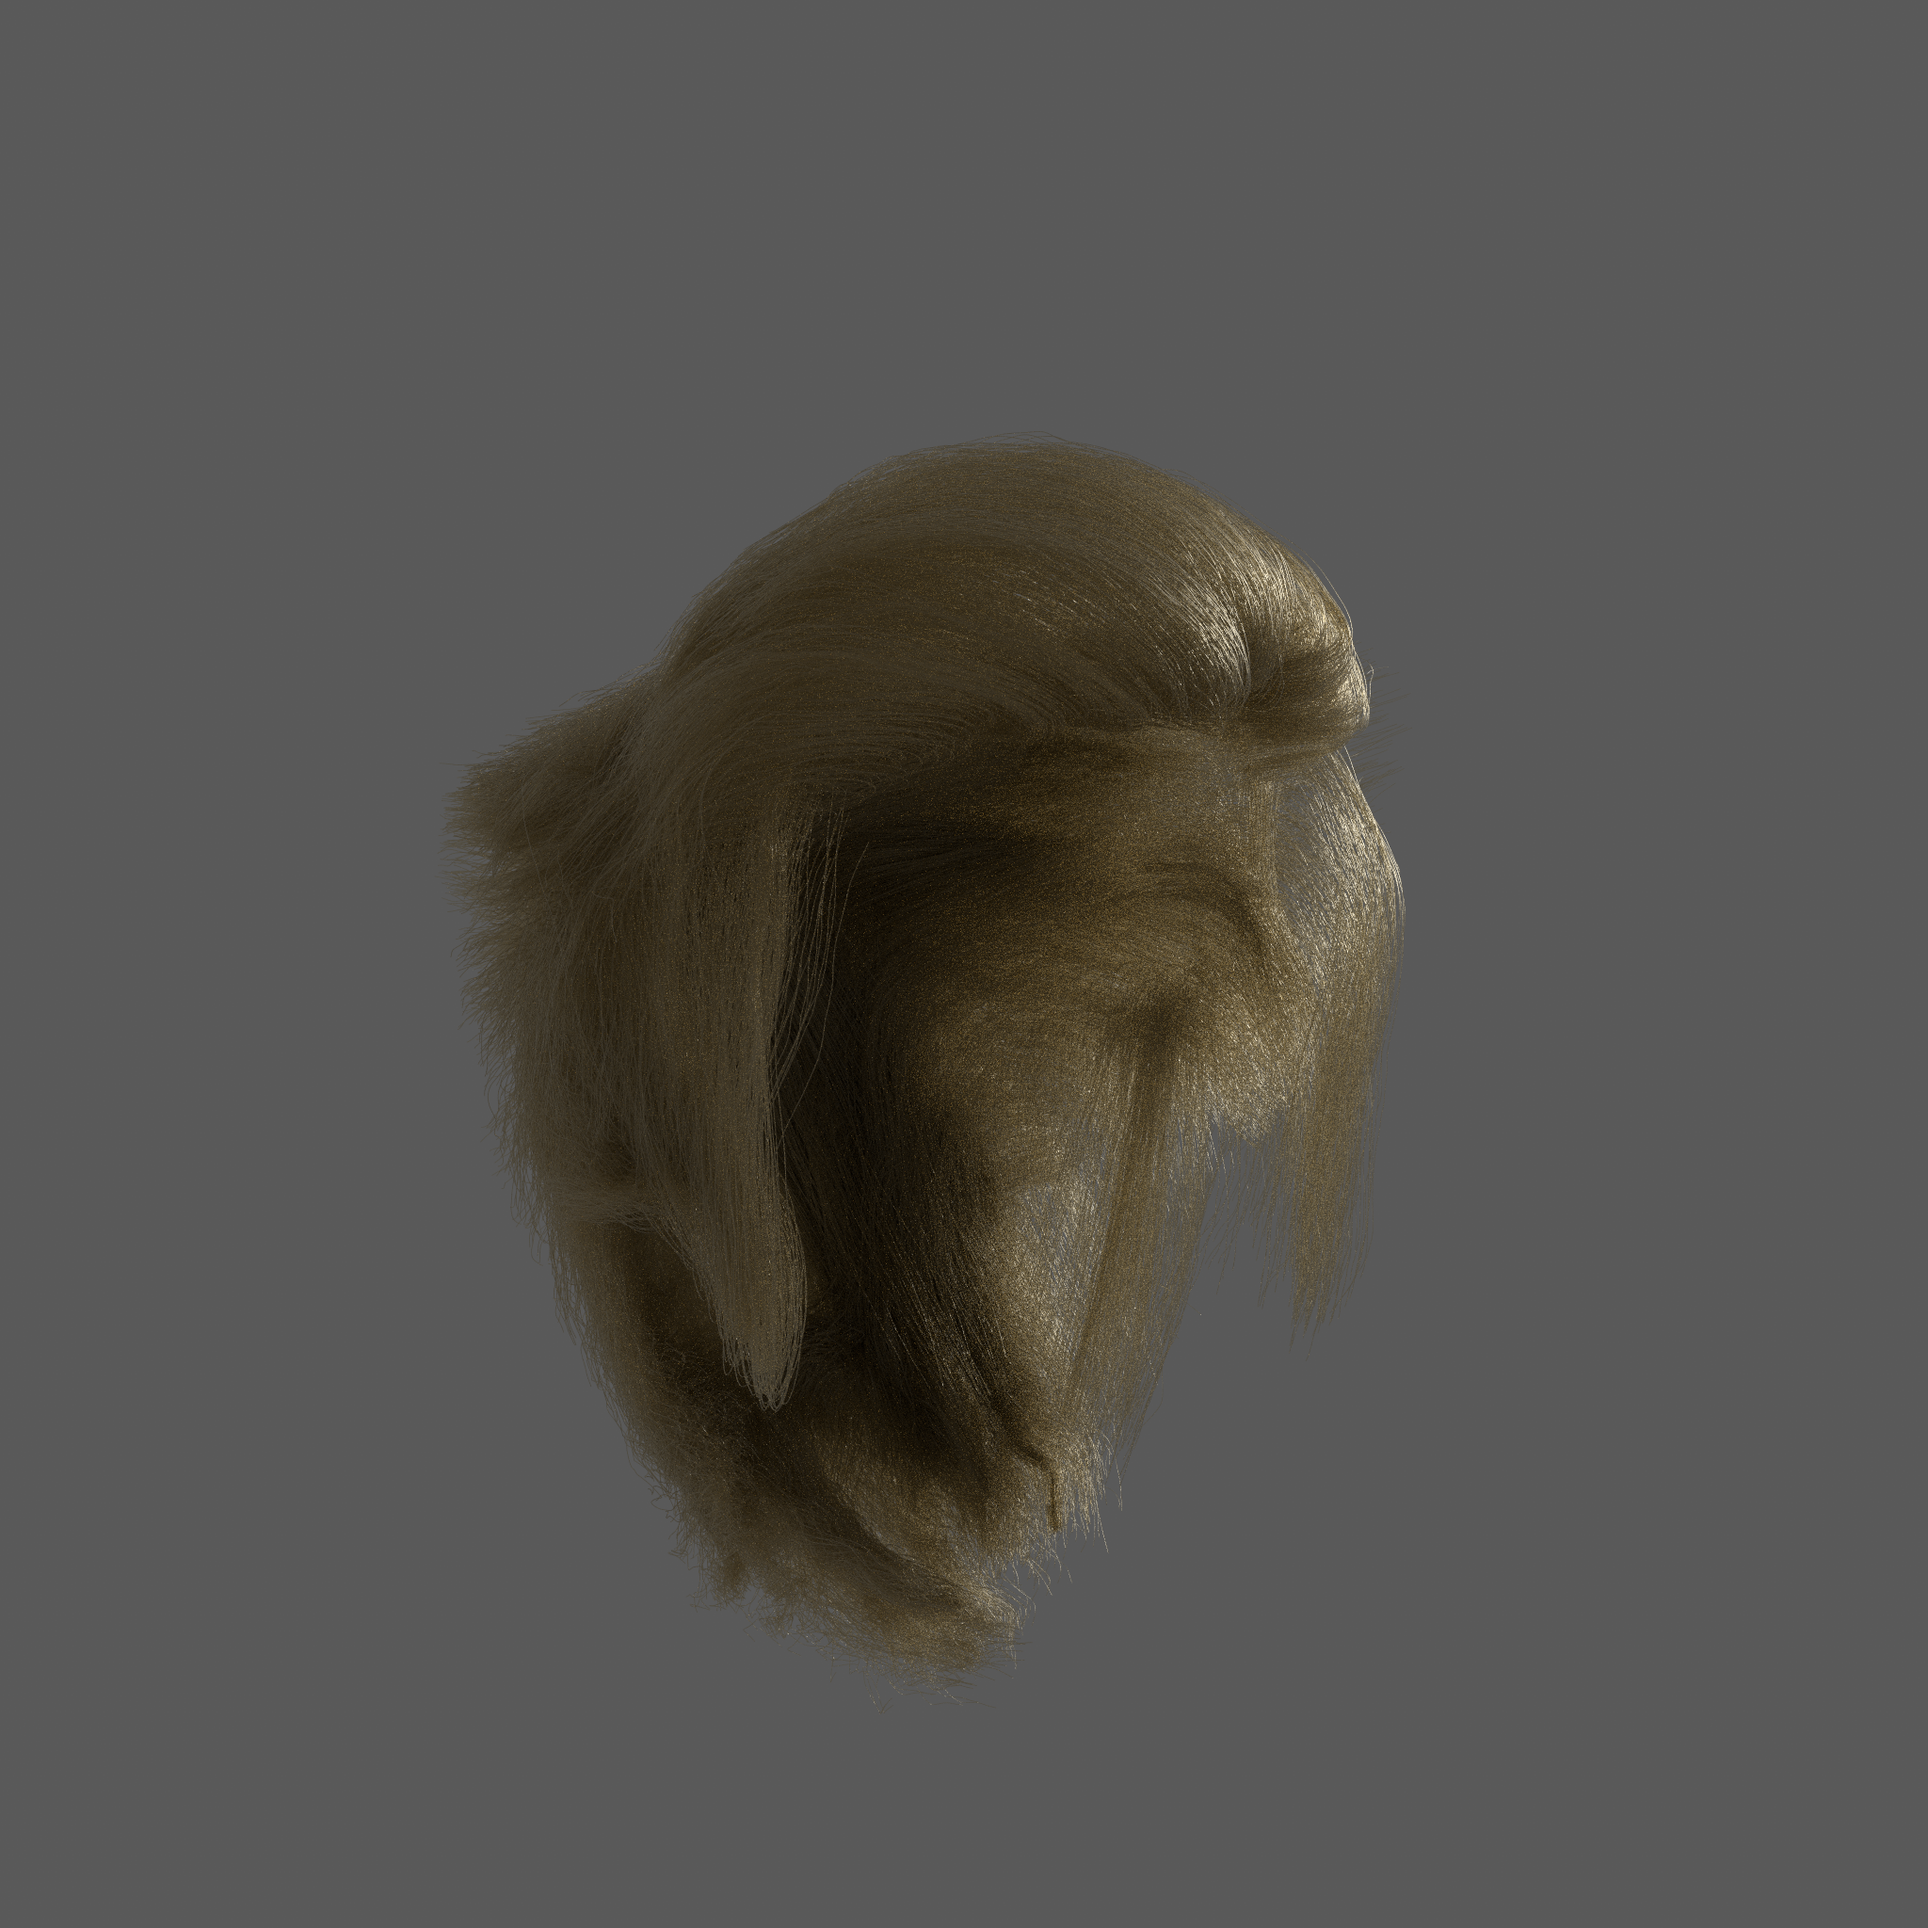
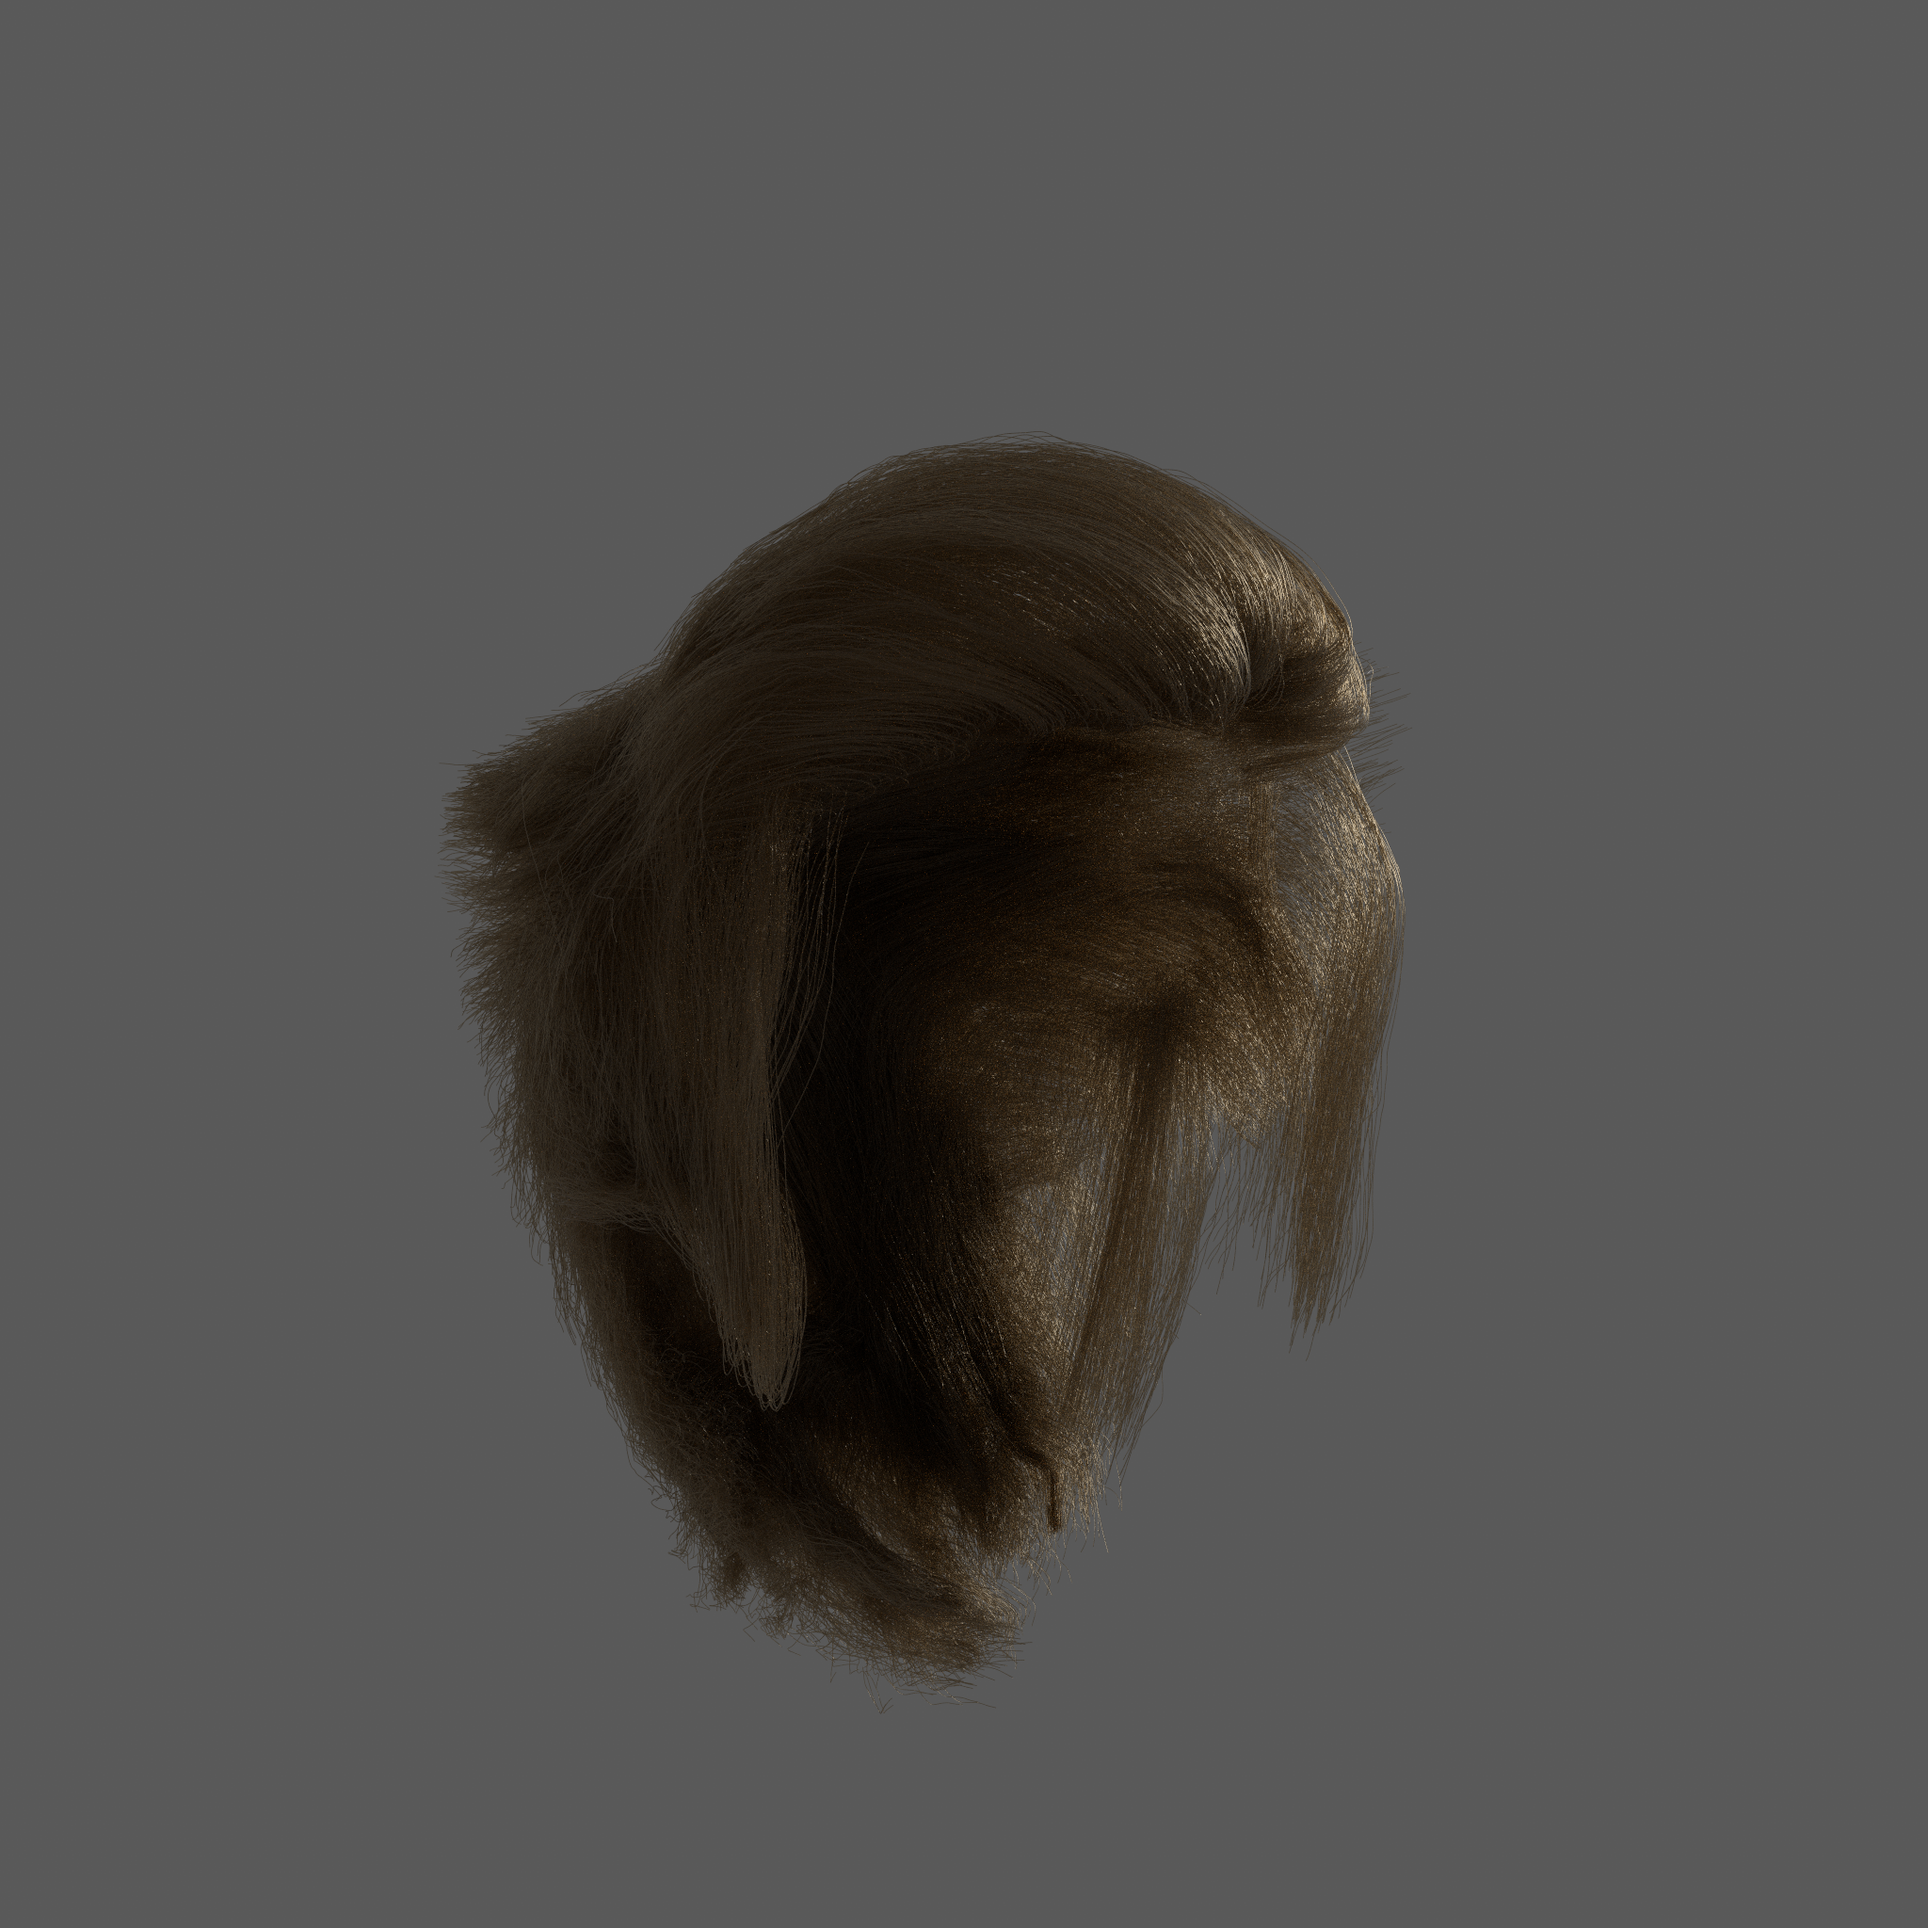
Different transmission implementations

Changed region(s): [[0.25, 0.2188, 0.75, 0.875]]

diff --git a/ext/Vulkan-Engine/src/tools/widgets.cpp b/ext/Vulkan-Engine/src/tools/widgets.cpp
@@ -761,7 +761,7 @@ void ObjectExplorerWidget::render() {
                     float ph = mat->get_pheomelanine();
                     if (ImGui::DragFloat("Pheomelanine", &ph, 0.01f, 0.0f, 2.0f))
                     {
-                        mat->set_pheomelanine(eu);
+                        mat->set_pheomelanine(ph);
                     }
                 } else
                 {
